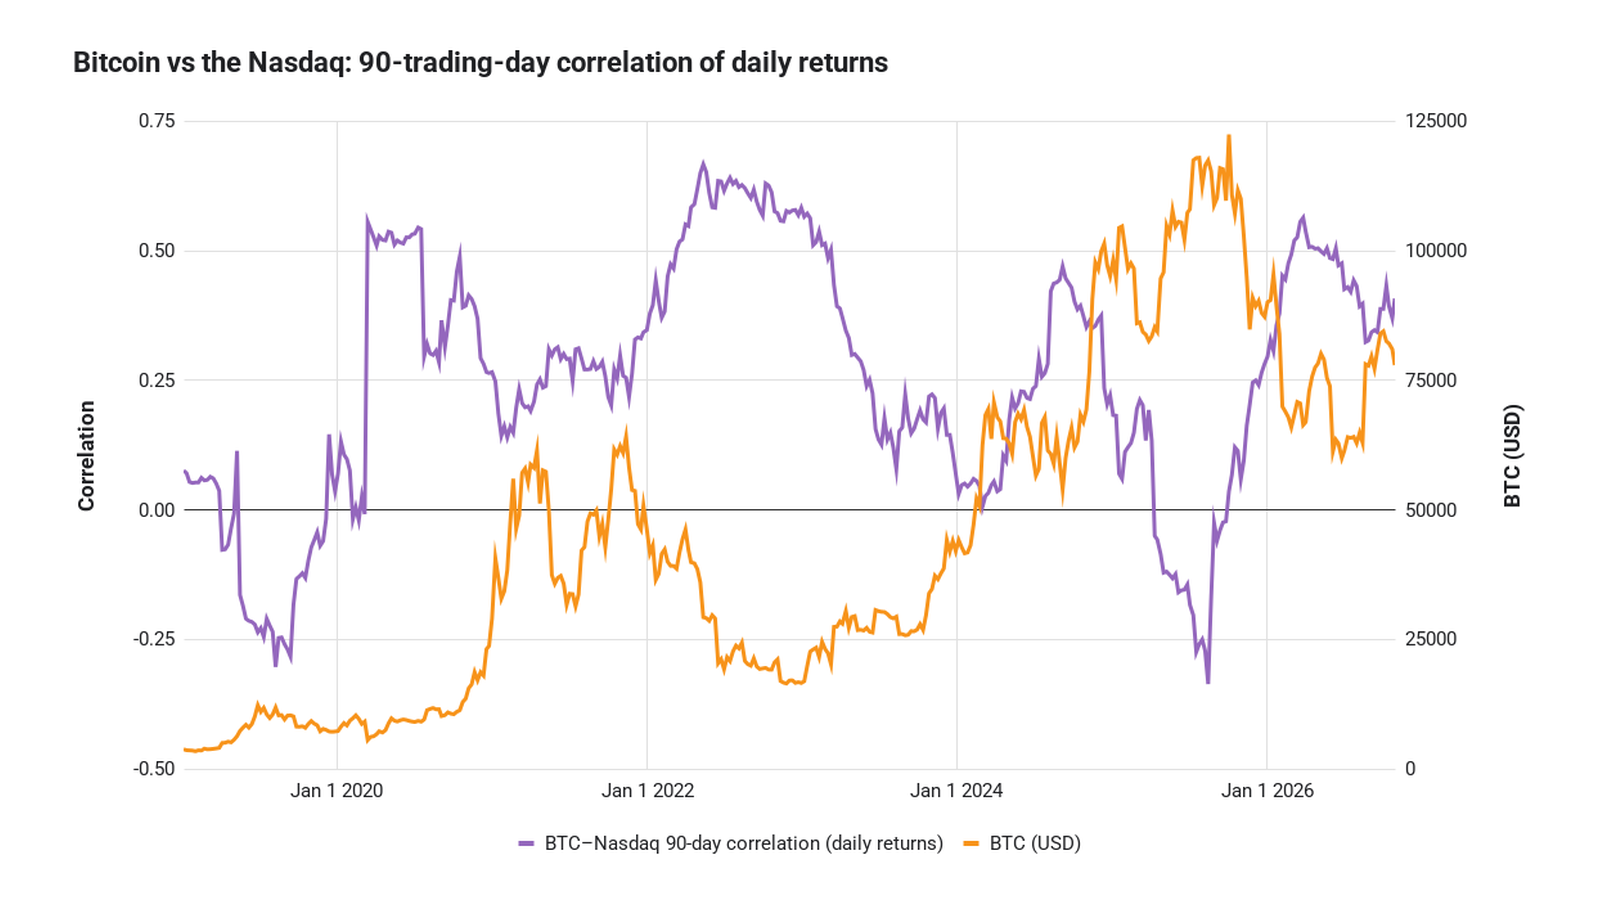
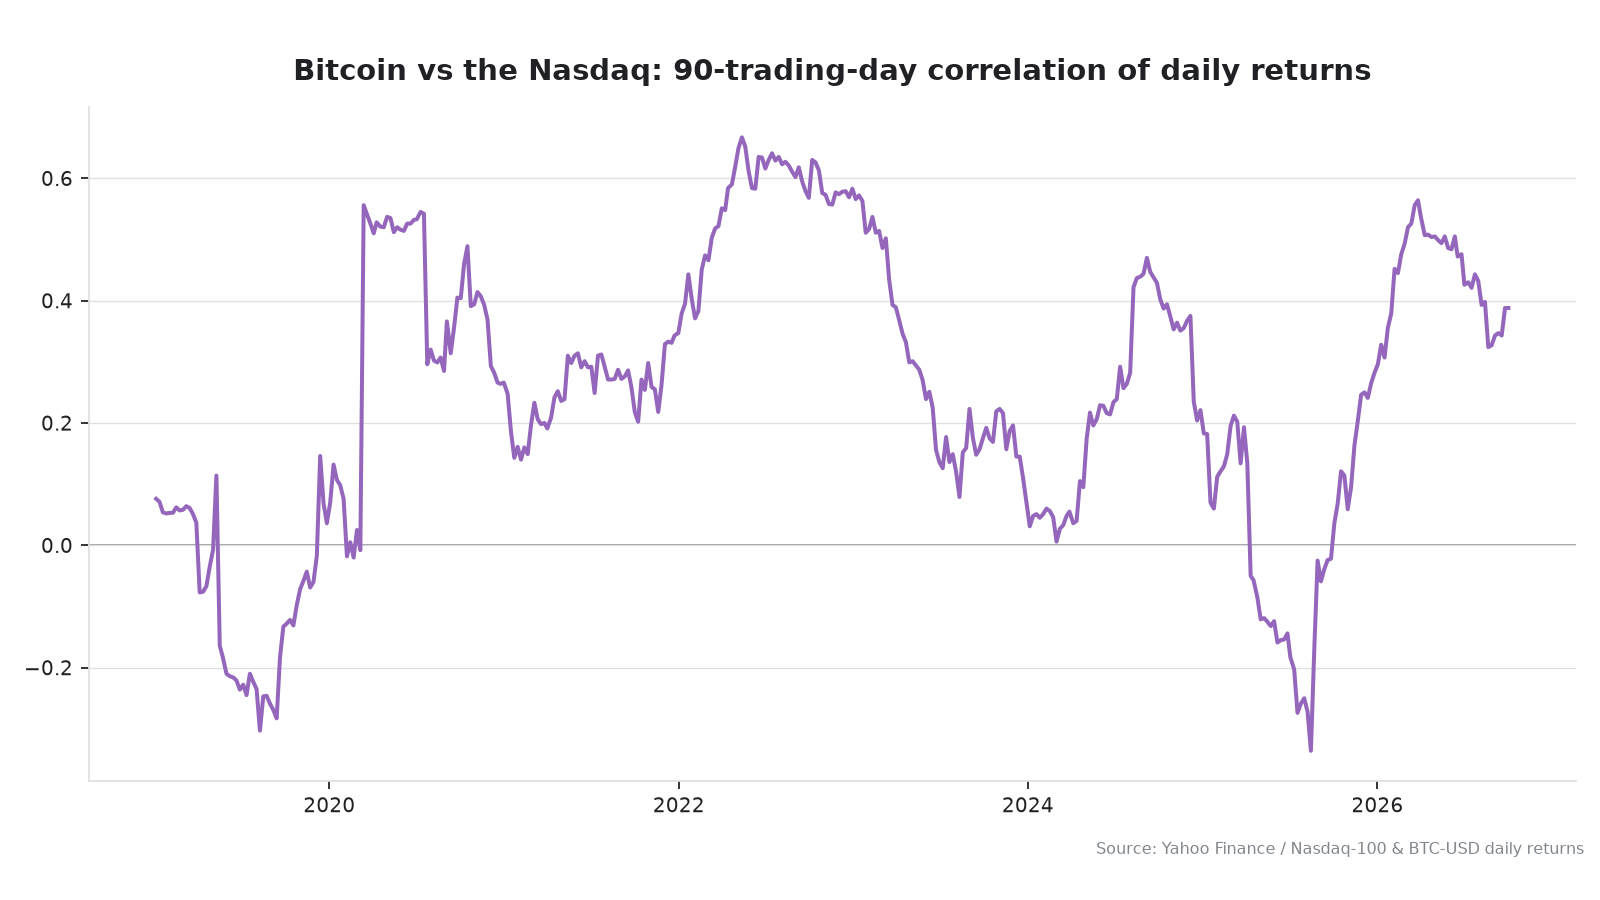
Remove Tesla beta chart and the BTC price line from BTC–Nasdaq
Drop Bot experiments gid 333185169 from the Sheets catalog, its PNG and thumbnail, and today's Charts of the day card, and keep a catalog rebuild from putting that chartless tab back. Replace gid 556824671's full PNG, thumbnail, and CotD image with the correlation-only chart, and drop the bitcoin price from that card's caption.

diff --git a/scripts/sheets_catalog.py b/scripts/sheets_catalog.py
@@ -33,6 +33,11 @@ BOOKS = [
     ("bot3", "My Bot's Sheets", "1BiV5QZti6uHTK1xBFDrTxcY9pimy0tR9o5YZb2fIqNU"),
 ]
 BY_ID = {sid: (bid, name) for bid, name, sid in BOOKS}
+# Workbook tabs that must not re-enter the catalog. The sheet can still exist.
+# ("bot1", 333185169) is "87 TSLA beta to Nasdaq": Mark deleted its only chart
+# on 2026-11-06 (chartId 1193590693). Columns A–C stay on the tab. A later
+# spreadsheets.get rebuild would otherwise add that chartless tab back.
+EXCLUDED_TABS = {("bot1", 333185169)}
 NOTE = (
     "Offline tab list. Regenerate tabs with scripts/sheets_catalog.py. "
     "Search previews are compressed thumbnails under static/sheets/thumbs/, built by scripts/sheets_thumbs.py. "
@@ -119,17 +124,20 @@ def one(doc):
         bid = "x" + sid[:8]
     sheets = doc.get("sheets") or []
     sheets = sorted(sheets, key=lambda s: (s.get("properties") or {}).get("index") or 0)
-    tabs, hidden = [], 0
+    tabs, hidden, excluded = [], 0, 0
     for s in sheets:
         p = s.get("properties") or {}
         if p.get("hidden"): hidden += 1; continue
         title = str(p.get("title") or "").strip()
         gid = p.get("sheetId")
         if not title or gid is None: continue
+        if (bid, int(gid)) in EXCLUDED_TABS:
+            excluded += 1
+            continue
         row = {"book": bid, "tab": title, "gid": int(gid), "charts": chart_titles(s), "chartList": chart_list(s)}
         tabs.append(row)
     return {"id": bid, "name": name, "spreadsheetId": sid,
-            "url": f"https://docs.google.com/spreadsheets/d/{sid}/edit"}, tabs, hidden
+            "url": f"https://docs.google.com/spreadsheets/d/{sid}/edit"}, tabs, hidden, excluded
 
 def main():
     ap = argparse.ArgumentParser()
@@ -141,11 +149,12 @@ def main():
     seen = set()
     for path in a.dumps:
         doc = json.load(open(path, encoding="utf-8"))
-        book, rows, hidden = one(doc)
+        book, rows, hidden, excluded = one(doc)
         if book["spreadsheetId"] in seen: sys.exit("duplicate spreadsheet " + book["spreadsheetId"])
         seen.add(book["spreadsheetId"])
         books.append(book); tabs.extend(rows)
-        print(f"{book['name']}: {len(rows)} tabs ({hidden} hidden skipped)")
+        extra = f", {excluded} excluded" if excluded else ""
+        print(f"{book['name']}: {len(rows)} tabs ({hidden} hidden skipped{extra})")
     missing = [name for bid, name, sid in BOOKS if sid not in seen]
     if missing and not a.allow_partial: sys.exit("missing workbook dumps: " + ", ".join(missing))
     order = {bid: i for i, (bid, _, _) in enumerate(BOOKS)}

diff --git a/README.md b/README.md
@@ -83,7 +83,7 @@ Refresh the tab list and thumbnails on a machine that can read the workbooks:
 
 1. Save each spreadsheet's metadata JSON (`spreadsheets.get` / the Sheets `get_spreadsheet` response: sheetId, title, chart titles).
 2. `python3 scripts/sheets_catalog.py bot1.json bot2.json bot3.json`  
-   This rewrites the tab list and **keeps** a thumbnail already recorded for a book and gid when that JPEG is still on disk.
+   This rewrites the tab list and **keeps** a thumbnail already recorded for a book and gid when that JPEG is still on disk. `EXCLUDED_TABS` in that script (Bot experiments gid 333185169, "87 TSLA beta to Nasdaq") stays out even when the sheet tab still exists with no chart.
 3. Point `scripts/sheets_thumbs.py` at a local folder of the weekly chart export (not at Render). The export names files after the tab, with the number sometimes zero-padded and a date on the end (`090 TSLA gross margin vs price 2026-10-21.png`). Duplicate names: the script keeps the newest date, then the newest file time.
    `python3 scripts/sheets_thumbs.py --from-dir /path/to/exported-pngs`
 4. Commit `static/sheets/catalog.json` and `static/sheets/thumbs/`. Do not commit the source folder itself.
